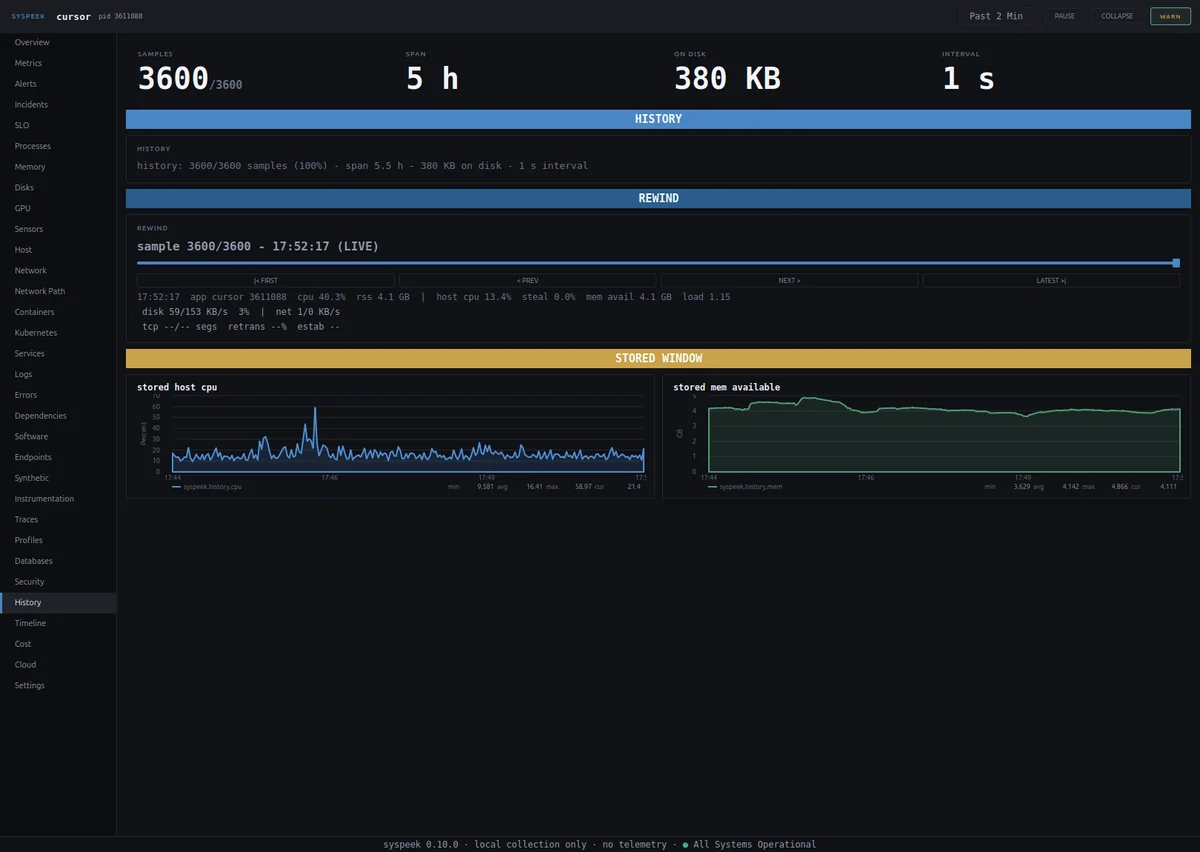
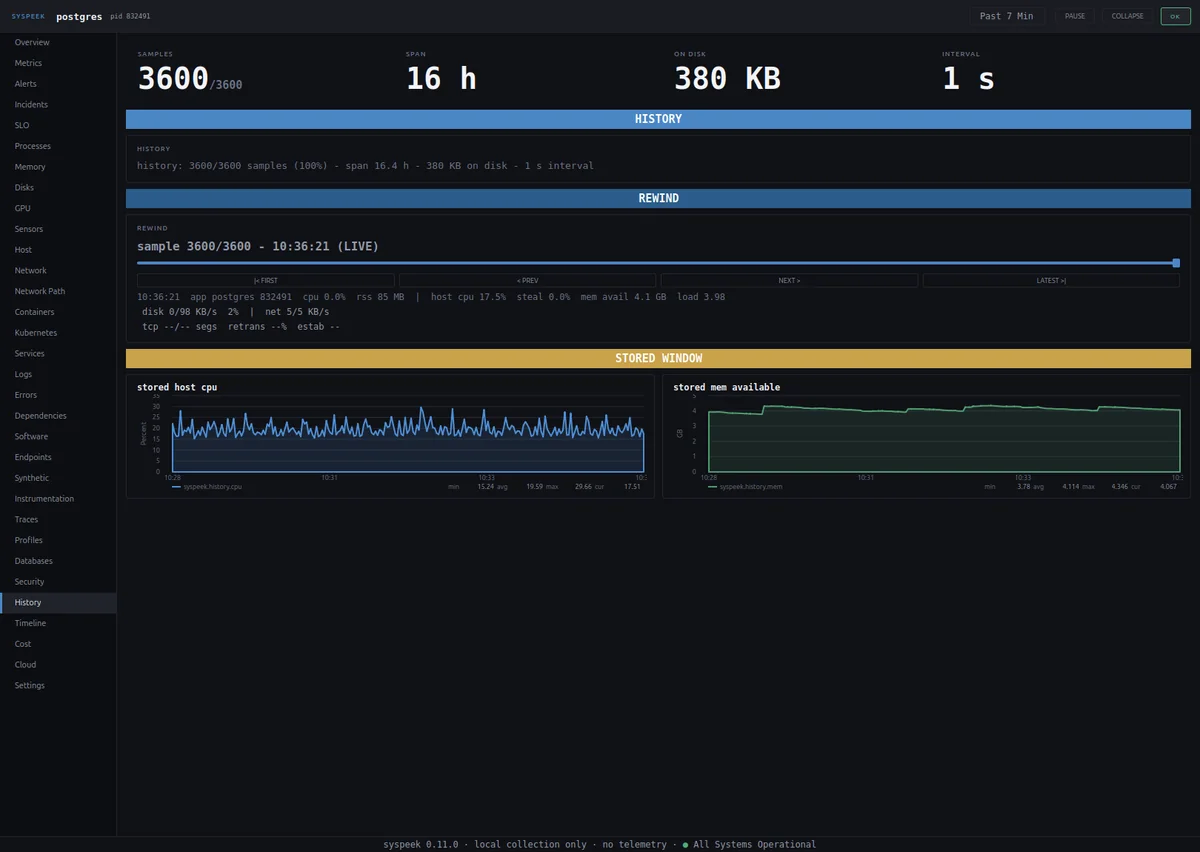
site: re-shoot the gallery live on 0.11.0, with the new Cost, Cloud, Containers and Kubernetes surfaces
The gallery was shot on 0.10.0 and could not show what this release added. The
rig is rebuilt (Xvfb, nginx + postgres:16-alpine with pg_stat_statements, the
local OTLP/DogStatsD/synthetic feed, minikube with metrics-server) and all 20
tiles are re-captured from the running binary at 1620x1150.

What the new shots carry that the old ones could not:
- **Cost** — the per-pod suggestion table: 'cpu 8.00 -> 0.03 cores, mem 4.0 GB
  -> 32.0 MB, save $196.31/mo' against a real cluster's metrics-server data,
  and the 'sized 11 of 15 pod(s) measured' line.
- **Cloud** — a live capture against a local AWS emulator rather than a fixture:
  the config-fallback identity note, the fleet table with per-instance $/MO, and
  the IaC drift card reporting '3 state resource(s) vs 3 listed - 2 in sync, 1
  missing from the account, 1 unmanaged' from a real terraform state file.
- **Containers** — the IDLE column and the idle-gate line.
- **Kubernetes** — 'contexts: minikube (current) - querying minikube'.
- **Timeline / History** — the M86 event stream and the M74 ring.

The billed-spend close-up stays fixture-rendered on purpose: a three-hour-old
emulator account has one day of cost, which draws an empty chart. The capture
note now says exactly that instead of implying every panel is live, and the
fixture itself gained the M88 burn line ('now $0.8600/h baseline $0.6200/h
1.39x month end $0.9100/h projected') so the tile shows the current design.
[…]

diff --git a/site/index.html b/site/index.html
@@ -178,14 +178,14 @@
             </figure>
             <figure class="tile">
               <a href="shots/cost.webp" target="_blank" rel="noopener"><img src="shots/cost.webp" width="1200" height="852" loading="lazy" alt="Cost page: monthly, hourly, CPU efficiency and memory efficiency tiles, a cost allocation card, a right-sizing card, a cost chart and namespace and workload breakdown tables." /></a>
-              <figcaption><b>Cost</b> OpenCost-style cluster cost from declared requests, efficiency, right-sizing and per-namespace share.</figcaption>
+              <figcaption><b>Cost</b> Cluster cost from declared requests, efficiency, and a per-pod suggestion table: request &rarr; usage &times; 1.2, priced at your own rates.</figcaption>
             </figure>
             <figure class="tile">
-              <a href="shots/cloud.webp" target="_blank" rel="noopener"><img src="shots/cloud.webp" width="1200" height="852" loading="lazy" alt="Cloud page: provider, age, accrued and monthly cost tiles, the instance identity card, a running-instances chart and the fleet inventory table." /></a>
-              <figcaption><b>Cloud</b> Instance identity from the metadata service, age and accrued cost, and the account's fleet from your own CLI.</figcaption>
+              <a href="shots/cloud.webp" target="_blank" rel="noopener"><img src="shots/cloud.webp" width="1200" height="852" loading="lazy" alt="Cloud page: provider, age, accrued and monthly cost tiles, the instance identity card showing the config-fallback note, a running-instances chart, the fleet inventory table with per-instance monthly rates, and the IaC drift card reporting two resources in sync, one missing and one unmanaged." /></a>
+              <figcaption><b>Cloud</b> Instance identity, the account's fleet from your own CLI with each row's age and monthly rate, and the Terraform state diffed against that listing.</figcaption>
             </figure>
             <figure class="tile">
-              <a href="shots/cloud-spend.webp" target="_blank" rel="noopener"><img src="shots/cloud-spend.webp" width="1200" height="715" loading="lazy" alt="Billed spend section of the Cloud page: a daily spend chart, month to date and forecast, the query it came from, and a per-service breakdown." /></a>
+              <a href="shots/cloud-spend.webp" target="_blank" rel="noopener"><img src="shots/cloud-spend.webp" width="1200" height="761" loading="lazy" alt="Billed spend section of the Cloud page: a daily spend chart, month to date and forecast, the query it came from, and a per-service breakdown." /></a>
               <figcaption><b>Billed spend</b> What the provider actually charged this month, straight from Cost Explorer, with a month-end forecast.</figcaption>
             </figure>
             <figure class="tile">
@@ -201,7 +201,7 @@
           <div class="notes">
             <h3 id="screenshot-notes">Notes on these captures</h3>
             <p>
-              These are live captures of Syspeek on one machine &mdash; not mock-ups and not a designer's render. The gallery was shot on 0.10.0 and has not been re-taken for 0.11.0 yet, so the <b>Cost</b> panel predates the per-pod right-sizing table and the <b>Cloud</b> panel predates the burn-rate line and the IaC drift card; the rest of the console is unchanged apart from those additions. The OTLP traces, DogStatsD metrics and synthetic checks are real receiver traffic from small local test clients pointed at the HUD. There is no cloud provider behind this laptop, so the two <b>Cloud</b> panels are rendered from the application's own screenshot fixtures with a synthetic AWS identity and spend document; every other panel is the running binary. Treat the Cloud panels as a layout reference, and the release notes for what CI proves about that path against a real metadata service.
+              These are live captures of Syspeek 0.11.0 on one machine &mdash; not mock-ups and not a designer's render. The OTLP traces, DogStatsD metrics and synthetic checks are real receiver traffic from small local test clients pointed at the HUD, and the cluster panels are a real single-node Kubernetes cluster with metrics-server. There is no cloud account behind this laptop, so the <b>Cloud</b> panel is a live capture against a <em>local AWS emulator</em>: the identity comes from <code>[cloud] identity=</code> (no instance metadata service exists there, and the card says so), and the instances, the rates and the Terraform diff are the emulator's real API responses decoded by the shipping code. The <b>Billed spend</b> close-up is the one panel rendered from the application's screenshot fixtures &mdash; a three-hour-old emulator account has one day of cost, which makes for an empty chart &mdash; so treat its numbers as a layout reference and the release notes for what is proven where.
             </p>
           </div>
         </div>

diff --git a/cpp/tools/screenshot.cpp b/cpp/tools/screenshot.cpp
@@ -589,6 +589,15 @@ DisplaySnapshot demoSnapshot(int tick) {
                                                            QLatin1Char('0')),
                           12.0 + double((day * 7) % 9)});
     }
+    // M88: the burn line rides the spend detail, so the fixture carries a
+    // measured rate instead of the "no billed spend yet" gate.
+    s.cloud.burn.valid = true;
+    s.cloud.burn.currentPerHour = 0.86;
+    s.cloud.burn.baselinePerHour = 0.62;
+    s.cloud.burn.ratio = 1.39;
+    s.cloud.burn.projectedPerHour = 0.91;
+    s.cloud.burn.severity = 0;
+    s.cloud.burn.text = cloudBurnText(s.cloud.burn);
 
     // M84: the console measures itself. A measured footprint and a 62 ms tick
     // with named sections, so the Settings render shows real rows.
